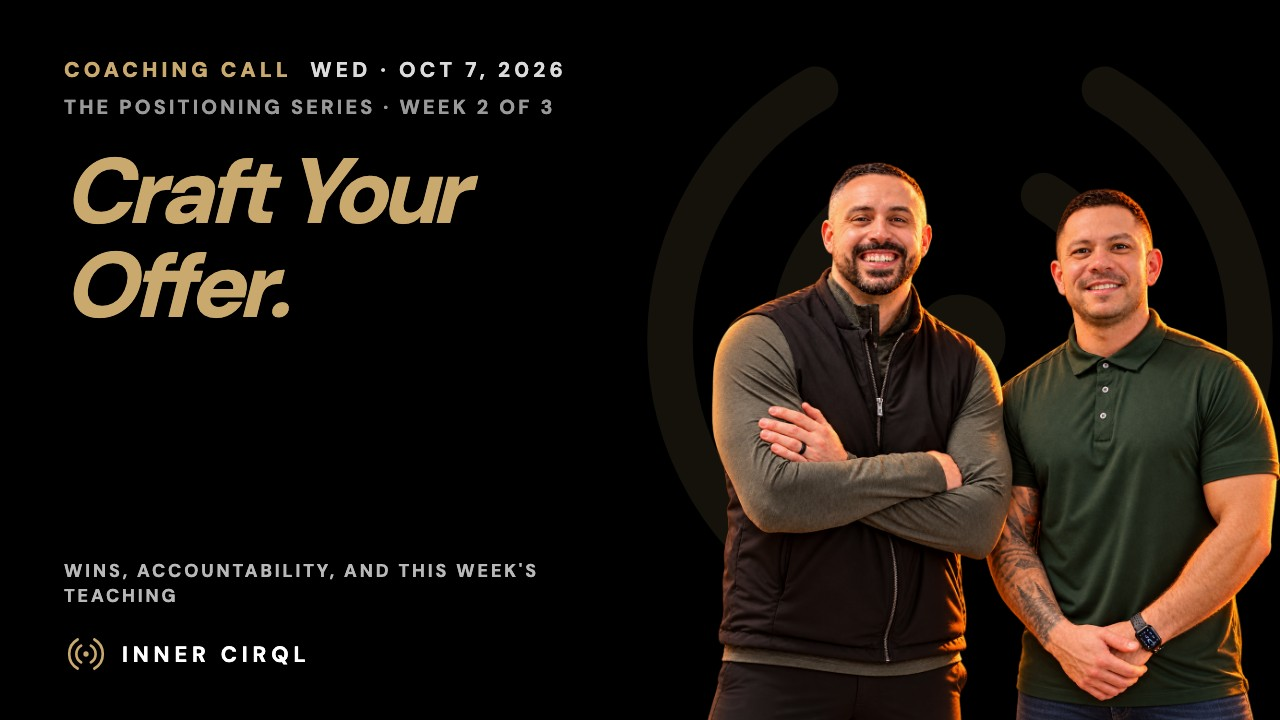
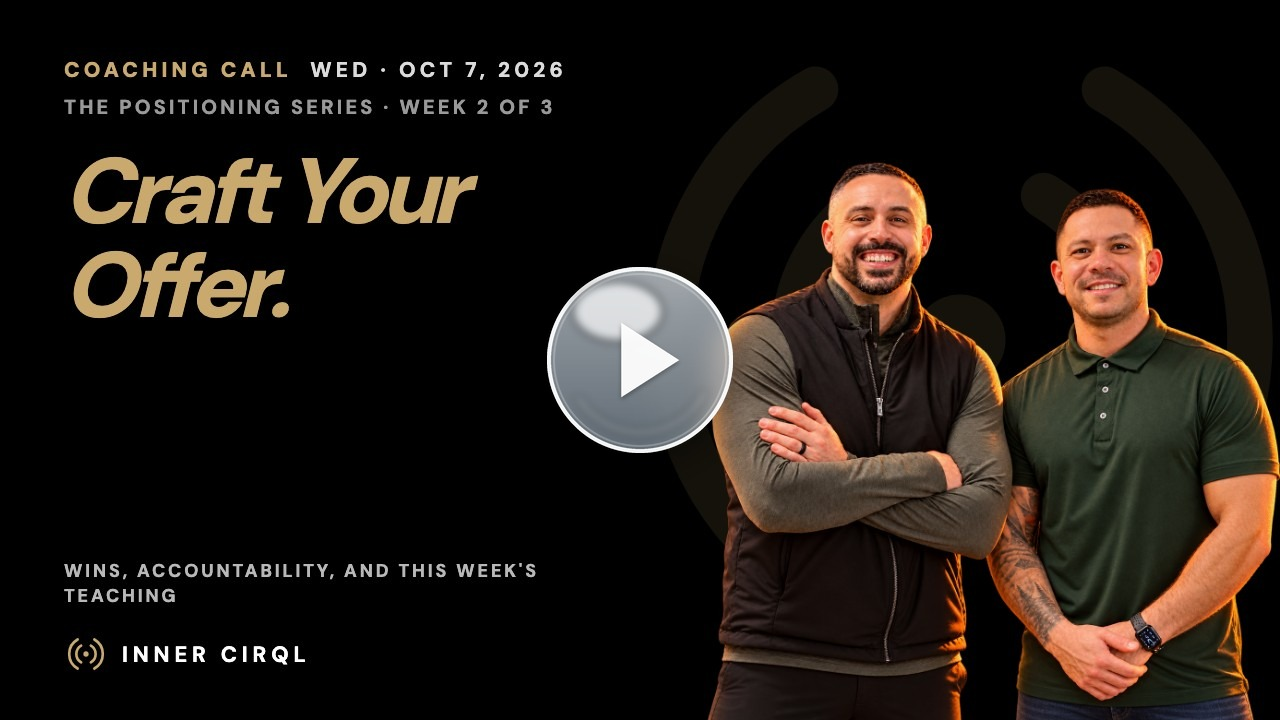
Training: retitle Oct 7 coaching call (The Positioning Series · Week 2 · Offer.) + thumbnail

Changed region(s): [[0.4062, 0.3667, 0.5938, 0.6417]]

diff --git a/training/index.html b/training/index.html
@@ -94,6 +94,26 @@ window.LIBRARY = {
   ],
   "items": [
     {
+      "id": "v-2026-10-07",
+      "date": "2026-10-07",
+      "dateLabel": "October 7, 2026",
+      "series": "positioning",
+      "week": 2,
+      "name": "Offer.",
+      "title": "The Positioning Series · Week 2 · Offer.",
+      "headline": [
+        "Craft Your",
+        "Offer."
+      ],
+      "sub": "The Positioning Series · Week 2 of 3",
+      "desc": "Wrap your Niche in an Offer: Promise · Container · Guarantee · Pillars. The Anatomy of an Offer, Offer A vs Offer B, Kayla's Offer, and your one-sentence offer. Wins, accountability, and the teaching segment, edited replay.",
+      "href": "https://coach.theinnercirql.com/2026-10-07/",
+      "pdf": null,
+      "slides": null,
+      "embed": "https://www.youtube.com/embed/leBovFWZylc?rel=0&modestbranding=1",
+      "thumb": "/assets/thumbs/oct-7-call.jpg?v=29920129"
+    },
+    {
       "id": "v-2026-09-30",
       "date": "2026-09-30",
       "dateLabel": "September 30, 2026",
@@ -532,26 +552,6 @@ window.LIBRARY = {
       "slides": null,
       "embed": "https://www.youtube.com/embed/C7iZYOLsMBM?rel=0&modestbranding=1",
       "thumb": "/assets/thumbs/oct-14-call.jpg?v=1"
-    },
-    {
-      "id": "v-2026-10-07",
-      "date": "2026-10-07",
-      "dateLabel": "October 7, 2026",
-      "series": "positioning",
-      "week": 2,
-      "name": "Offer.",
-      "title": "The Positioning Series · Week 2 · Offer.",
-      "headline": [
-        "Craft Your",
-        "Offer."
-      ],
-      "sub": "The Positioning Series · Week 2 of 3",
-      "desc": "Wrap your Niche in an Offer: Promise · Container · Guarantee · Pillars. The Anatomy of an Offer, Offer A vs Offer B, Kayla's Offer, and your one-sentence offer. Wins, accountability, and the teaching segment, edited replay.",
-      "href": "https://coach.theinnercirql.com/2026-10-07/",
-      "pdf": null,
-      "slides": null,
-      "embed": "https://www.youtube.com/embed/leBovFWZylc?rel=0&modestbranding=1",
-      "thumb": "/assets/thumbs/oct-7-call.jpg?v=1"
     },
     {
       "id": "t-become-a-listing-magnet",
